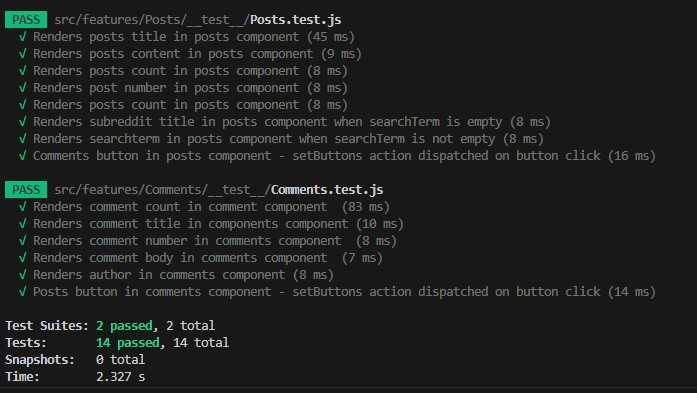
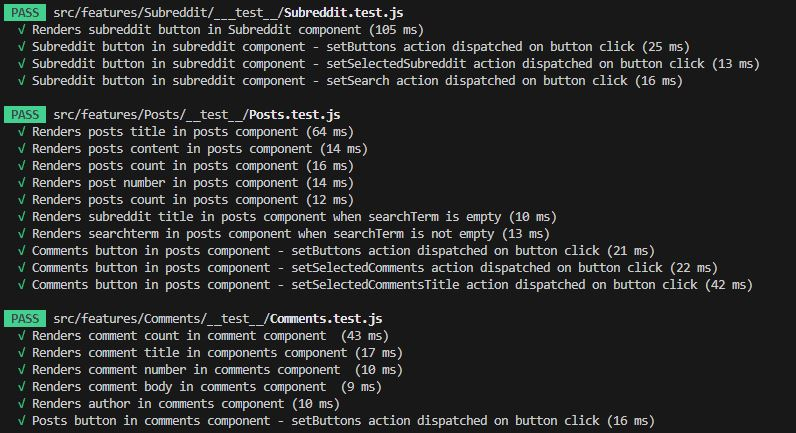
Subreddit Tests Added - Posts Tests Updated

Changed region(s): [[0.0, 0.0, 0.9641, 1.0]]

diff --git a/src/features/Posts/__test__/Posts.test.js b/src/features/Posts/__test__/Posts.test.js
@@ -4,7 +4,7 @@ import { Provider } from 'react-redux';
 import configureStore from 'redux-mock-store';
 import { MemoryRouter } from 'react-router-dom';
 import { Posts } from '../Posts';
-import { setButtons } from '../../Comments/commentsSlice';
+import { setSelectedComments, setButtons, setSelectedCommentsTitle } from '../../Comments/commentsSlice';
 
 const mockStore = configureStore([]);
 
@@ -13,8 +13,8 @@ const initialState = {
     posts: {
       data: {
         children: [
-          { data: { id: '1', title: 'Post 1 Title', selftext: 'Post 1 Content', url: 'url1', author: 'Author 1' } },
-          { data: { id: '2', title: 'Post 2 Title', selftext: 'Post 2 Content', url: 'url2', author: 'Author 2' } },
+          { data: { id: '1', title: 'Post 1 Title', selftext: 'Post 1 Content', url: 'url1', author: 'Author 1', permalink: 'Post 1 Permalink' } },
+          { data: { id: '2', title: 'Post 2 Title', selftext: 'Post 2 Content', url: 'url2', author: 'Author 2', permalink: 'Post 2 Permalink' } },
         ],
       },
     },
@@ -167,8 +167,47 @@ test('Comments button in posts component - setButtons action dispatched on butto
   const actions = store.getActions();
   const expectedAction = setButtons('Hide Comments');
 
-  console.log('Posts actions', actions)
-  console.log('Posts expected actions', expectedAction)
+  expect(actions).toContainEqual(expectedAction);
+});
+
+
+test('Comments button in posts component - setSelectedComments action dispatched on button click', () => {
+  const store = mockStore(initialState);
+
+  const { getAllByText } = render(
+    <Provider store={store}>
+      <MemoryRouter>
+        <Posts />
+      </MemoryRouter>
+    </Provider>
+  );
+  
+  const button = getAllByText('Comments')
+  fireEvent.click(button[0]);
+
+  const actions = store.getActions();
+  const expectedAction = setSelectedComments('Post 1 Permalink');
+
+  expect(actions).toContainEqual(expectedAction);
+});
+
+
+test('Comments button in posts component - setSelectedCommentsTitle action dispatched on button click', () => {
+  const store = mockStore(initialState);
+
+  const { getAllByText } = render(
+    <Provider store={store}>
+      <MemoryRouter>
+        <Posts />
+      </MemoryRouter>
+    </Provider>
+  );
+  
+  const button = getAllByText('Comments')
+  fireEvent.click(button[0]);
+
+  const actions = store.getActions();
+  const expectedAction = setSelectedCommentsTitle('Post 1 Title');
 
   expect(actions).toContainEqual(expectedAction);
 });

diff --git a/src/features/Subreddit/___test__/Subreddit.test.js b/src/features/Subreddit/___test__/Subreddit.test.js
@@ -6,7 +6,7 @@ import { MemoryRouter } from 'react-router-dom';
 import  { SubReddit } from '../SubReddit';
 import thunk from 'redux-thunk';
 import { setButtons } from '../../Comments/commentsSlice';
-import { setSelectedSubreddit } from '../../Posts/postsSlice';
+import { setSelectedSubreddit, setSearch } from '../../Posts/postsSlice';
 
 const middlewares = [thunk];
 const mockStore = configureStore(middlewares);
@@ -62,6 +62,49 @@ const initialState = {
   
     const actions = store.getActions();
     const expectedAction = setButtons('Show Comments');
+  
+    expect(actions).toContainEqual(expectedAction);
+  });
+
+
+  
+  test('Subreddit button in subreddit component - setSelectedSubreddit action dispatched on button click', () => {
+    const store = mockStore(initialState);
+  
+    const { getByText } = render(
+      <Provider store={store}>
+        <MemoryRouter>
+          <SubReddit />
+        </MemoryRouter>
+      </Provider>
+    );
+    
+    const button = getByText('Subreddit Button 1')
+    fireEvent.click(button);
+  
+    const actions = store.getActions();
+    const expectedAction = setSelectedSubreddit('Button 1 Prefixed');
+  
+    expect(actions).toContainEqual(expectedAction);
+  });
+
+
+  test('Subreddit button in subreddit component - setSearch action dispatched on button click', () => {
+    const store = mockStore(initialState);
+  
+    const { getByText } = render(
+      <Provider store={store}>
+        <MemoryRouter>
+          <SubReddit />
+        </MemoryRouter>
+      </Provider>
+    );
+    
+    const button = getByText('Subreddit Button 1')
+    fireEvent.click(button);
+  
+    const actions = store.getActions();
+    const expectedAction = setSearch('');
   
     expect(actions).toContainEqual(expectedAction);
   });

diff --git a/README.md b/README.md
@@ -1,17 +1,11 @@
-## Git Clone
+## Installation
 1. git clone https://github.com/richiehales/richie-reddit-app.git
-
-## Install
-1. npm install
-2. npm i react-router-dom
-3. npm install redux-mock-store --save-dev
+2. npm install
+3. npm i react-router-dom
+4. npm install redux-mock-store --save-dev
 
 ## Current step
-1. Write Tests 
-   1a. Redux docs - https://redux.js.org/usage/writing-tests#:~:text=Redux%20can%20be%20tested%20with,by%20the%20Redux%20library%20repos.
-   1b. Net Ninja - https://www.youtube.com/watch?v=7dTTFW7yACQ&list=PL4cUxeGkcC9gm4_-5UsNmLqMosM-dzuvQ
-   1c. Mock Server - https://mswjs.io/docs/
-   1d. test React-Redux connected Components - https://www.robinwieruch.de/react-connected-component-test/
+1. Finalise README
       
 ## Future additions
 1. Display comments under relevent post
@@ -23,9 +17,12 @@
 ## Wireframe
 ![image info](./images/postspage.jpg)
 
-## Testing
+## Testing Overview
+![image info](./images/testing_overview.jpg)
+
+## Testing Results
 ![image info](./images/testing.jpg)
 
 ## Last Push
-Home Sunday 12:00
+Home Thursday 18:00
 
